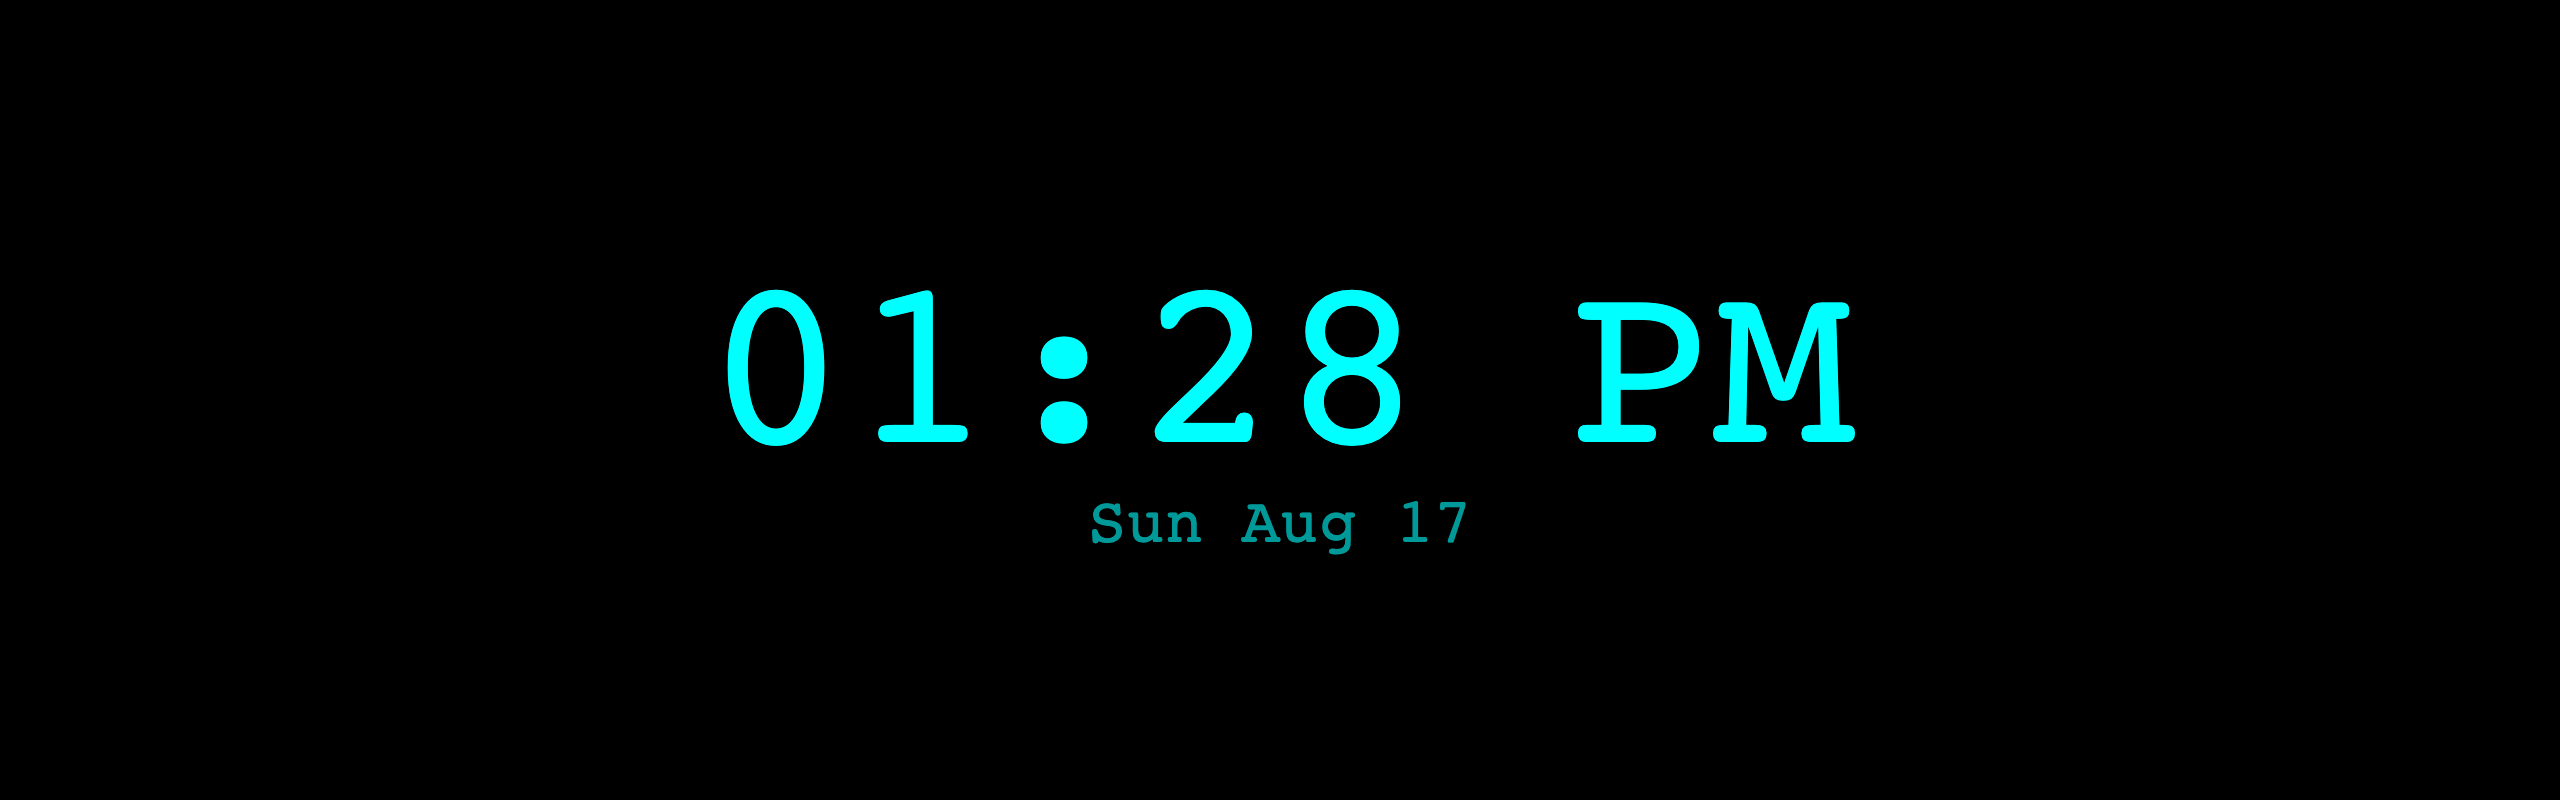
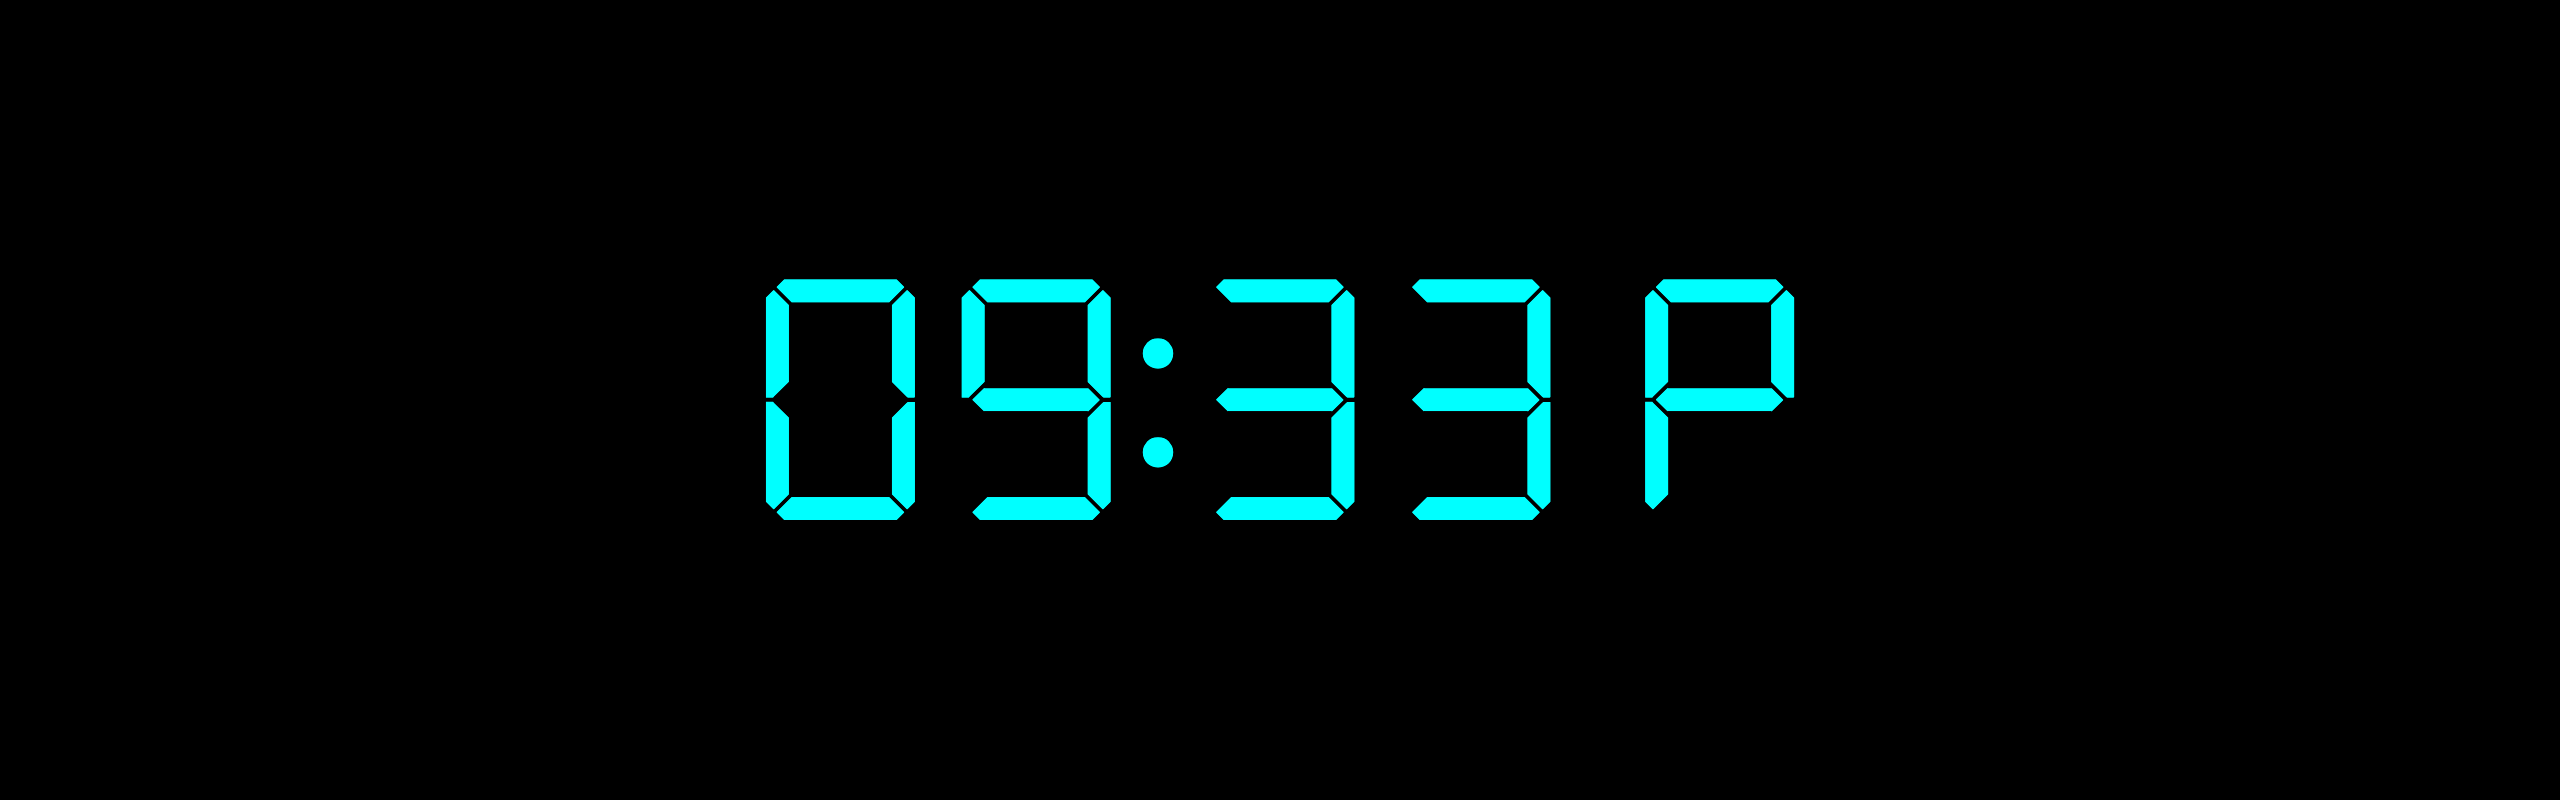
feat: add DSEG font files and integrate seven-segment display font in simple-clock template

Changed region(s): [[0.2812, 0.3438, 0.75, 0.6875]]

diff --git a/templates/simple-clock.html b/templates/simple-clock.html
@@ -1,3 +1,23 @@
+<style>
+  .clock-time {
+    font-size: 120px; 
+    line-height: 1;
+  }
+  /* Make colons take up less space like real seven-segment displays */
+  .clock-time::after {
+    content: '';
+  }
+  /* Blinking colon animation */
+  .blinking-colon {
+    animation: blink 2s infinite;
+  }
+  @keyframes blink {
+    from { opacity: 1; }
+    50% { opacity: 1; }
+    51% { opacity: 0; }
+    to { opacity: 0; }
+  }
+</style>
 <div
   style="
     display: flex;
@@ -6,18 +26,19 @@
     align-items: center;
     width: 100%;
     height: 100%;
-    font-family: 'Courier New', 'Monaco', 'Menlo', 'Ubuntu Mono', monospace;
-    font-weight: bold;
-    text-shadow: 0 0 10px currentColor;
-    color: #00ff00;
-    background: #000;
+    font-family: 'DSEG7Classic', 'Courier New', 'Monaco', 'Menlo', 'Ubuntu Mono', monospace;
   "
 >
-  <div id="sc-time" style="font-size: 120px; line-height: 1"></div>
+  <div id="sc-time" class="clock-time">
+    <span id="hours"></span><span class="blinking-colon">:</span><span id="minutes"></span> <span id="ampm"></span>
+  </div>
 </div>
 <script>
   (function () {
     const timeEl = document.getElementById('sc-time');
+    const hoursEl = document.getElementById('hours');
+    const minutesEl = document.getElementById('minutes');
+    const ampmEl = document.getElementById('ampm');
 
     const rawTime = String.raw`{{ time }}`.trim();
     const useMachineRaw = String.raw`{{ useMachine }}`.trim();
@@ -30,16 +51,40 @@
 
     function formatNow() {
       const now = new Date();
-      const time = now.toLocaleTimeString(undefined, { hour: '2-digit', minute: '2-digit' });
-      return time;
+      const time = now.toLocaleTimeString(undefined, { 
+        hour: '2-digit', 
+        minute: '2-digit',
+        hour12: true 
+      });
+      // Parse the time string to get individual components
+      const match = time.match(/(\d{1,2}):(\d{2})\s*(AM|PM)/i);
+      if (match) {
+        return {
+          hours: match[1],
+          minutes: match[2],
+          ampm: match[3].replace(/AM/g, 'A').replace(/PM/g, 'P')
+        };
+      }
+      return { hours: '00', minutes: '00', ampm: 'A' };
     }
 
     function render() {
       if (useMachine) {
-        const time = formatNow();
-        timeEl.textContent = time;
+        const { hours, minutes, ampm } = formatNow();
+        // Update only the parts that have changed
+        if (hoursEl.textContent !== hours) hoursEl.textContent = hours;
+        if (minutesEl.textContent !== minutes) minutesEl.textContent = minutes;
+        if (ampmEl.textContent !== ampm) ampmEl.textContent = ampm;
       } else {
-        timeEl.textContent = rawTime || '';
+        // For static time, parse and set once
+        if (rawTime) {
+          const match = rawTime.match(/(\d{1,2}):(\d{2})\s*(AM|PM|A|P)/i);
+          if (match) {
+            hoursEl.textContent = match[1];
+            minutesEl.textContent = match[2];
+            ampmEl.textContent = match[3].replace(/AM/g, 'A').replace(/PM/g, 'P');
+          }
+        }
       }
     }
 

diff --git a/server/public/styles.css b/server/public/styles.css
@@ -18,6 +18,14 @@ body {
   font-style: normal;
   font-display: swap;
 }
+/* Optional bundled seven-segment display font */
+@font-face {
+  font-family: 'DSEG7Classic';
+  src: url('/fonts/DSEG7Classic-Regular.woff2') format('woff2');
+  font-weight: normal;
+  font-style: normal;
+  font-display: swap;
+}
 #root {
   position: relative;
   width: 100%;
